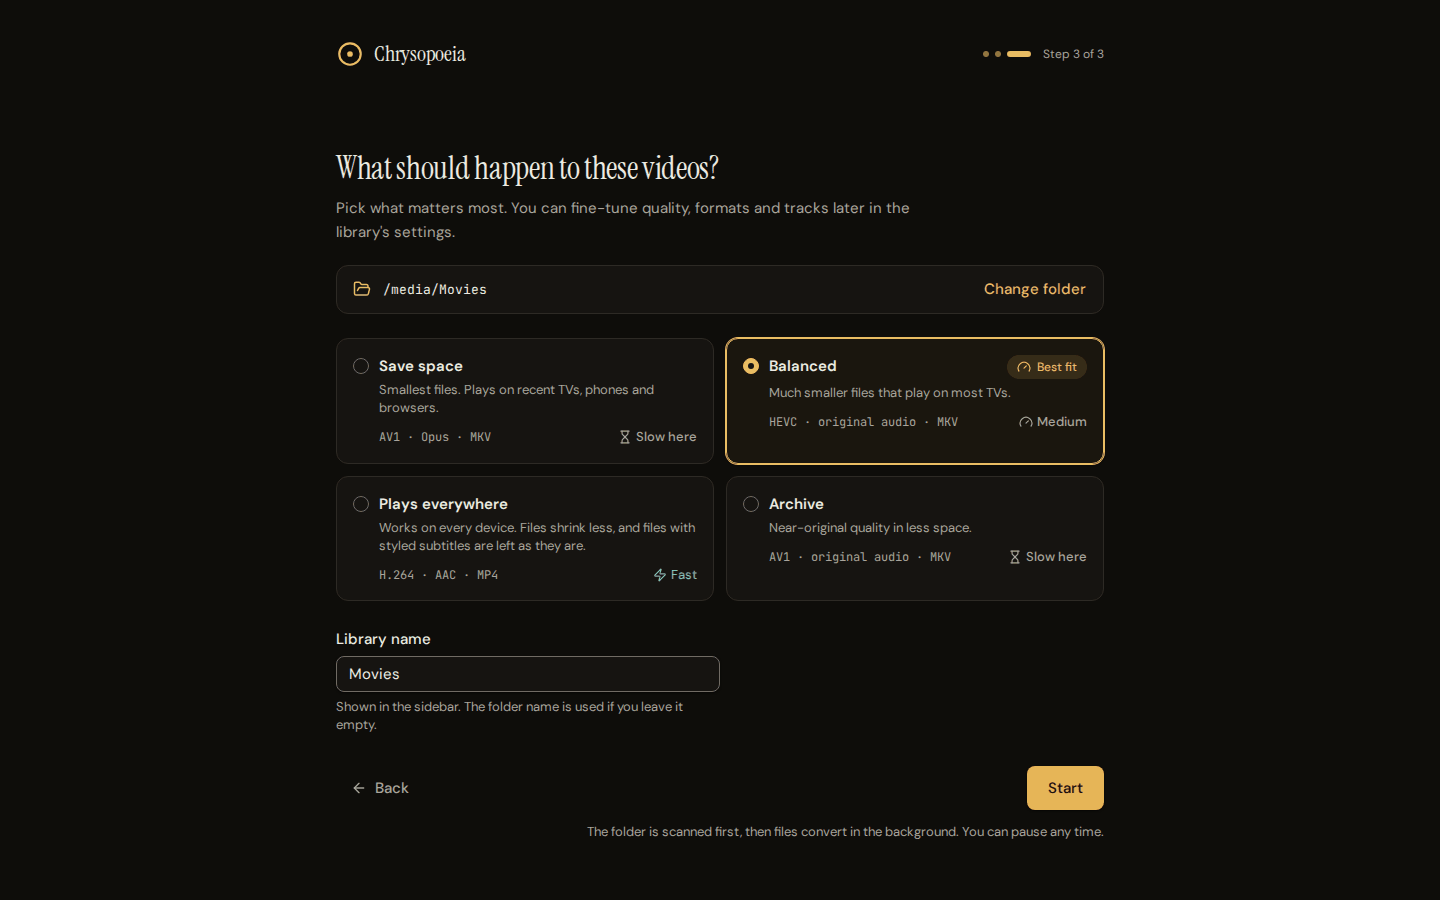
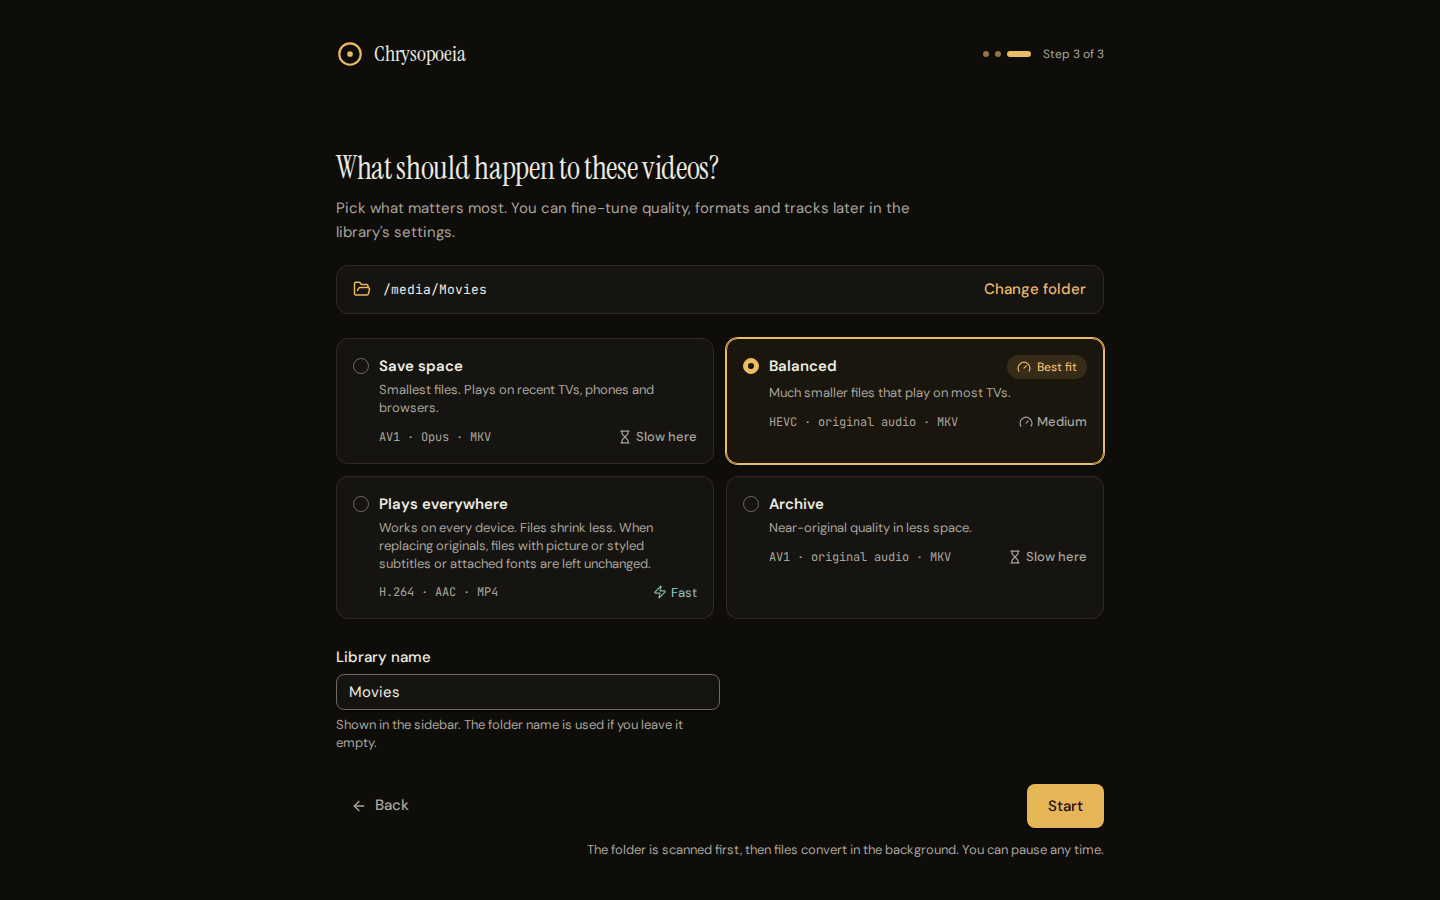
docs: cover share hangs, skip reasons, folder limits and output-name clashes
Brings README.md, docs/UNRAID.md and CONTRIBUTING.md (HARDWARE.md needed no
change) in line with the product after 5a6d938, checked against a real image
built from 063d07a and run Unraid-style (PUID 99, PGID 100, UMASK 002):

- Skip reasons: picture subtitles, styled ASS/SSA subtitles, fonts and other
  attachments, and covers MP4 or WebM can't hold are skipped when replacing,
  with Convert anyway; covers are kept where the format holds them; a file with
  another hard link is skipped too. Quoted the real wording.
- Renames: History and Recently finished show "Was <old name>", and a
  library's search finds a file by its old name.
- A share that stops answering: the library reads "isn't responding", the job
  goes back in the queue, other libraries keep converting, Cancel answers in
  seconds; says plainly that docker stop can't finish while a killed ffmpeg is
  stuck on the hung mount.
- Goal changes while a file converts, library folder limits (/, /config, /app,
  /proc, /sys, /dev), the output-name clash between libraries, a second
  container on one Config folder, a full disk at start, and the unknown-address
  screen with its nginx hint.
- Troubleshooting rows in docs/UNRAID.md for each of these.
- CONTRIBUTING.md: the browser test's new History check, the test-hooks
  feature, the UI-only tooling, and the real screenshot timing.
- Screenshots: setup, overview and job retaken from the new image (the goal
[…]

diff --git a/README.md b/README.md
@@ -68,10 +68,12 @@ while asking far less of you:
   10-bit colour where the target allows; deinterlaces broadcast recordings; skips
   files that are already efficient.
 - Never loses part of a file by replacing it: when the target format can't hold
-  something the original has (picture subtitles, subtitle styling, fonts or cover
-  images in MP4 or WebM), the original is left as it is. An MKV goal keeps it
-  all; with an output folder or Convert anyway the file is converted and each
-  loss is noted on the job.
+  something the original has (picture subtitles, styled ASS/SSA subtitles, fonts
+  and other attachments, or a cover image that MP4 or WebM can't store), the file
+  is skipped, the reason is shown and the original stays as it is. An MKV goal
+  keeps it all, and covers are kept in MKV and, if JPEG, PNG or BMP, in MP4. With
+  an output folder or *Convert anyway* the file is converted and each loss is
+  noted on the job.
 - Watches folders and picks up new files, with an optional schedule (*When to
   convert*), pause, priorities and retry.
 - Replaces originals in place, or writes to a separate output folder and leaves
@@ -79,7 +81,9 @@ while asking far less of you:
   `Movie.mp4` becomes `Movie.mkv`: Plex, Jellyfin and Emby pick that up at their
   next scan, while Sonarr and Radarr see the old file as missing until their next
   disk scan or a *Refresh & Scan* of the series or movie (see the
-  [FAQ](#faq)).
+  [FAQ](#faq)). History and *Recently finished* show the new name with the old
+  one under it (*Was Movie.mp4*), and a library's search finds the file by
+  either.
 
 ### Goals
 
@@ -91,7 +95,9 @@ while asking far less of you:
 | Archive | AV1, highest quality | original | MKV | at least 5% smaller |
 
 The first-run screen suggests the goal that suits the machine (the *Best fit*
-badge) and shows how fast each goal converts on it.
+badge) and shows how fast each goal converts on it. When originals are replaced,
+*Plays everywhere* skips a file that has picture subtitles, styled subtitles or
+attachments MP4 can't hold, instead of trimming it (see the [FAQ](#faq)).
 
 ## Quick start
 
@@ -193,7 +199,9 @@ the folder you want converted and click the button that names it, **Use
 “Movies”**. Then pick a goal and click **Start**. Chrysopoeia scans the folder,
 queues the files that need work and starts converting; the Overview shows the
 space saved and what is happening now. Add more folders later with **Add
-library**.
+library**. A library can't be `/`, `/config`, `/app`, `/proc`, `/sys` or `/dev`,
+or a folder inside one of them: the picker disables the button and says why, and
+the same rule applies to `LIBRARIES`.
 
 ### Which image
 
@@ -324,13 +332,22 @@ leave them as they are.
 | `/media` | Your media. Needs write access so originals can be replaced. |
 | `/temp` | Optional scratch space on a fast disk (SSD or cache pool). |
 
+Each container needs its own `/config` folder. A second one started on the same
+folder stops at once and says *Another Chrysopoeia is already using the data
+folder /config*, so nothing is changed; give it its own folder (Unraid: the
+Config path; docker: `-v /other/folder:/config`) or stop the first. If the disk
+that holds `/config` is full, the start fails with *The disk that holds the data
+folder (/config) is full, so the database there couldn't be opened*: free some
+space there and start it again.
+
 ### Behind a reverse proxy
 
 Chrysopoeia answers on its IP address, `localhost` and local names (`tower`,
 `tower.local`, `nas.lan`, `*.home.arpa`, `*.ts.net` and similar) without any
 setup. So that a hostile website cannot reach it through a look-alike domain,
 any other name must be listed in `ALLOWED_HOSTS`; until it is, the app shows
-*Chrysopoeia doesn't answer to the address "…"*.
+*Chrysopoeia doesn't answer to the address "…"* with the line to add and, for
+nginx, the `proxy_set_header Host $http_host;` hint.
 
 - Set `ALLOWED_HOSTS=transcode.example.com` (several: separate with commas; a
   leading dot, `.example.com`, allows every name under that domain).
@@ -415,9 +432,11 @@ chose under *More format options*. `Movie.mp4` becomes `Movie.mkv`, and an
 container keeps its name. Because the old path then no longer exists, Plex,
 Jellyfin and Emby pick up the new name at their next library scan, while Sonarr
 and Radarr show the file as missing until their next disk scan or until you
-run *Refresh & Scan* on the series or movie. To keep names as they are, choose
-a goal whose container matches your files (*Balanced* for a library of `.mkv`
-files), or *Save to a separate folder*.
+run *Refresh & Scan* on the series or movie. In History and *Recently finished*
+the file appears under its new name with *Was Movie.mp4* beneath it, and the
+library's search finds it by the old name too. To keep names as they are,
+choose a goal whose container matches your files (*Balanced* for a library of
+`.mkv` files), or *Save to a separate folder*.
 
 **What does "Verified" mean?**
 The new file was opened and checked before it replaced the original. With the
@@ -447,7 +466,9 @@ each with its fix and, where trying again can help, a **Try again** button:
 - *N files couldn't be converted*: the encoder or the checks failed. The
   originals are untouched; the file's page says why.
 - *N files changed or moved while being converted*: nothing was replaced.
-- *Movies: the folder can't be read* (a library's name comes first): the folder is missing or offline.
+- *Movies: the folder can't be read* (a library's name comes first): the folder
+  is missing, offline, or on a share or drive that isn't responding (see *What if
+  a network share or drive stops answering?* below).
 
 **Why was a file skipped?**
 The reason is shown next to the file. The usual ones: the video is already as
@@ -455,15 +476,24 @@ efficient as the target (for example it is already AV1); it is audio-only; it
 could not be read or is shorter than a second; the converted file was not
 enough smaller to be worth keeping (the original is kept); it is HDR and the
 goal is H.264 (tone mapping is not supported yet); it is Dolby Vision profile 5,
-whose colours cannot be kept; the goal saves to MP4 or WebM (for example
-*Plays everywhere*) and the file has something that format cannot hold
-(picture-based subtitles, styled subtitles, subtitle fonts or other attached
-files, or a cover image MP4 can't store), so replacing it would lose it; or you
-skipped it. *Convert anyway* on a skipped file converts it once, ignoring the
-library's rules for skipping (the usual checks still run); in the subtitle case
-what the format cannot hold is left out and noted on the job. An MKV goal keeps
-everything, and *Save to a separate folder* converts the file while the
-original stays.
+whose colours cannot be kept; it has another hard link (a torrent that is still
+seeding), so replacing it would use more space instead of saving it; the goal
+saves to MP4 or WebM (for example *Plays everywhere*) and the file has something
+that format can't hold; or you skipped it.
+
+When the format can't hold something, replacing the file would lose it, so the
+original is left alone and the reason says what: *MP4 can't hold this file's 2
+picture-based subtitles, 1 styled subtitle and 1 subtitle font, so it was left
+unchanged.* That covers picture-based subtitles (PGS, VobSub), styled ASS/SSA
+subtitles (MP4 and WebM keep only their text), fonts and other attached files,
+and cover images the format can't store (WebM holds none; MP4 holds JPEG, PNG
+and BMP). An MKV goal keeps everything, and *Save to a separate folder*
+converts the file while the original stays.
+
+*Convert anyway* on a skipped file converts it once, ignoring the library's
+rules for skipping (the usual checks still run). What the format can't hold is
+left out and noted on the job; a file with another hard link ends as
+*Converted, no space freed*.
 
 **How many files convert at once?**
 By default it is automatic (*Files at once* in Settings › Processing). On the
@@ -477,6 +507,31 @@ Running jobs are stopped and their temporary files removed; the original is
 never left half-replaced. After the restart those files are back in the queue
 and start again from the beginning. `docker stop` waits for them to wind down,
 normally a few seconds.
+
+**What if a network share or drive stops answering?**
+Whenever it stops, in the middle of a job or before one starts, its library
+shows *The folder /media/Movies isn't responding. If it's on a network share or
+an external drive, check the connection.* under *Needs your attention* within
+seconds, and a running job goes back in the queue within a minute. Nothing is
+marked failed, the files stay listed, and the other libraries keep converting.
+When the share answers again the job starts over. **Cancel** and *Stop now*
+still answer within seconds. A new file that was being put in place when the
+share hung is finished or undone once it answers; the original is never left
+half-replaced.
+
+If it never answers, fix the mount (or unmount it) on the host: Chrysopoeia
+can't do that from inside the container. `docker stop` makes Chrysopoeia exit
+within seconds, but Linux can't kill a process that is waiting on a hung mount,
+so Docker may go on showing the container as running, and `docker stop` may
+report *tried to kill container, but did not receive an exit event*, until the
+share answers.
+
+**What happens to files when I change a library's goal?**
+Files that were skipped or are waiting are decided again under the new goal; a
+scan does the same for any it missed. Files already converted stay as they are.
+A file that is converting when you change the goal is decided again when its job
+ends: when originals are replaced and the new goal would still convert the
+result, it is queued again; otherwise it stays as it is.
 
 **A job's ffmpeg log says `set_mempolicy: Operation not permitted`.**
 Harmless. The x265 (HEVC) encoder asks the kernel where to place its memory,

diff --git a/docs/UNRAID.md b/docs/UNRAID.md
@@ -118,12 +118,17 @@ Click **Apply**. Unraid pulls the image and starts the container.
 2. Click **Choose a folder**. The folder browser opens at `/media`, which is
    the Media share you picked. Open the folder you want converted (for
    example `Movies`) and click the button at the bottom, which names the folder
-   you are in: **Use “Movies”**. You can add more libraries later.
+   you are in: **Use “Movies”**. You can add more libraries later. The picker
+   won't take `/`, `/config` or the app's own and system folders: the button
+   is disabled and the picker says why. Choose the folder that holds your videos.
 3. Choose a goal. *Balanced* (HEVC) is fast with a GPU and plays on most TVs;
    *Save space* (AV1) gives the smallest files; *Plays everywhere* (H.264)
    suits old devices; *Archive* keeps near-original quality. Each card shows
    how fast your hardware handles it, and the one that suits this machine is
-   marked *Best fit*. You can rename the library here.
+   marked *Best fit*. You can rename the library here. Under *Plays everywhere*
+   a file whose subtitles or attachments MP4 can't hold is skipped, with the
+   reason shown, instead of losing them; see
+   [Troubleshooting](#troubleshooting).
 4. Click **Start**. Chrysopoeia scans the folder, queues the files that need
    work, and starts converting. The **Overview** shows the space saved so far
    and what is happening now; the **Queue** has three tabs: **Running** (each
@@ -149,7 +154,8 @@ The converted file gets the new container's extension, so `Movie.mp4` becomes
 that is already in that container keeps its name. Plex, Jellyfin and Emby pick
 this up at their next scan. Sonarr and Radarr see the old file as missing until
 their next disk scan, or until you run *Refresh & Scan* on the series or
-movie.
+movie. In **History** and *Recently finished* the file shows its new name with
+*Was Movie.mp4* beneath it, and the library's search finds it by either name.
 
 ## Transcode cache on an SSD
 
@@ -190,11 +196,14 @@ Config, Media and Transcode cache:
 
 The new files mirror each library's folder structure inside `/output`, with
 the goal's extension, but without the library's own folder name. Two libraries
-that hold the same relative path therefore want the same output file: the
-second is not written (it is never overwritten), and its page says *A file
-named "…" is already in the output folder*. When your libraries are folders
-of one share (`Movies`, `TV`), add that share as a single library instead:
-the output then keeps the `Movies` and `TV` folders.
+that hold the same relative path therefore want the same output file. The
+second is refused and nothing is overwritten: that file fails with *Another
+library's converted file, from Kids, already uses the name "Frozen
+(2013)/Frozen.mkv" in the output folder /output, so this file wasn't converted
+and that file wasn't overwritten*, and the Overview lists it under *Finished
+files can't be saved*. When your libraries are folders of one share (`Movies`,
+`TV`), add that share as a single library instead: the output then keeps the
+`Movies` and `TV` folders.
 
 ## Reverse proxy (SWAG, Nginx Proxy Manager, Traefik)
 
@@ -347,10 +356,17 @@ GPU device it can see.
 | Log says */config already holds other files but no Chrysopoeia database* | The Config path points at a folder that other apps use, such as `/mnt/user/appdata`. Chrysopoeia only adds its own files there and leaves the rest alone, but give it a folder of its own: **Edit** the container, set Config to `/mnt/user/appdata/chrysopoeia` and click **Apply**. |
 | Log says *cannot write to /config* | The Config folder belongs to someone else and is not writable for PUID/PGID, and Chrysopoeia will not take over a folder that holds other data. Set PUID/PGID to the folder's owner, or set Config to a new folder such as `/mnt/user/appdata/chrysopoeia`, which Chrysopoeia then takes over. |
 | Log says *No host folder is mounted at /config* | The Config path is empty, so settings and history would be lost on the next update. Set it to `/mnt/user/appdata/chrysopoeia`. |
+| Log says *Another Chrysopoeia is already using the data folder /config* | A second Chrysopoeia container uses the same Config path (or the first is still running). Nothing was changed. Stop the other one, or **Edit** this one and give it a Config folder of its own, for example `/mnt/user/appdata/chrysopoeia2`. |
+| Log says *The disk that holds the data folder (/config) is full* | The disk behind the Config path (your cache pool or an array disk) has no room for the database. Free some space on it, then start the container again. |
+| A library is listed under **Needs your attention** as *The folder … isn't responding*, and nothing in it converts | The share or drive behind that folder stopped answering, for example a remote SMB or NFS share that went away, or an Unassigned Devices drive that is stuck. Whenever that happens, even in the middle of a job, the job goes back in the queue and nothing is marked failed; the other libraries keep converting, and **Cancel** and *Stop now* still answer within seconds. Fix the connection or the mount on the Unraid side: when the folder answers, the files start over by themselves. A new file that was being put in place is finished or undone, never left half-replaced. Chrysopoeia exits within seconds when you stop the container, but Linux can't kill a process that is waiting on a hung mount, so Docker may keep showing it as running (and the stop may fail with *did not receive an exit event*) until the share answers or its mount is fixed. |
+| A file is skipped with *MP4 can't hold this file's …, so it was left unchanged* | The goal writes MP4 (*Plays everywhere*) and the file has picture-based subtitles (PGS, VobSub), styled ASS/SSA subtitles, fonts or other attached files, or a cover image MP4 can't keep, so replacing the original would lose them. Choose an MKV goal (*Balanced*, *Save space* or *Archive*), which keeps everything; save converted files to a separate folder ([Keeping your originals](#keeping-your-originals)); or open the file and click **Convert anyway** to convert it without them. |
+| A file is skipped with *This file has another hard link* | A torrent that is still seeding, or another hard link, shares the file, so replacing it would use more space instead of saving it. Remove the other link, or click **Convert anyway**; the job then reads *Converted, no space freed*. |
+| Choosing a folder says *The whole server can't be a library*, or that */config* or a system folder can't be one | A library can't be `/`, `/config`, `/app`, `/proc`, `/sys` or `/dev`, or a folder inside one of them. Choose the folder that holds your videos, inside `/media`. |
+| With an output folder, a file fails with *Another library's converted file, from Kids, already uses the name …* | Two libraries hold the same relative path, so both would write the same file in the output folder. The second is refused and nothing is overwritten. Rename one of the two files, or add the share above both folders as one library (see [Keeping your originals](#keeping-your-originals)). |
 | New files are not picked up | Folder watching sees changes made through `/mnt/user` shares. Files added directly to a disk (`/mnt/disk1/...`) are found by the periodic rescan (every 12 hours by default), or open the **⋯** menu at the top right of the library's page and choose **Scan now**. |
 | The server feels slow while converting | Lower *Files at once* in Settings > Processing, or turn on *When to convert* there so conversions run overnight. |
 | Nothing converts at night / during the day as expected | *When to convert* uses the server's time zone. Unraid passes it automatically; check **Settings > Date and Time**. |
-| The app says *Chrysopoeia doesn't answer to the address …* | You opened it through a domain name. Add that name to ALLOWED_HOSTS (see [Reverse proxy](#reverse-proxy-swag-nginx-proxy-manager-traefik)). |
+| The app says *Chrysopoeia doesn't answer to the address …* | You opened it through a name that is not listed. The screen shows the line to use: add that name to ALLOWED_HOSTS and restart (see [Reverse proxy](#reverse-proxy-swag-nginx-proxy-manager-traefik)). Behind nginx, it also needs `proxy_set_header Host $http_host;`. |
 | Through a reverse proxy the page opens, but saving says *This request came from another website, so Chrysopoeia refused it* | The proxy replaces the address the browser used. nginx: add `proxy_set_header Host $http_host;`; Apache: `ProxyPreserveHost On` (see [Reverse proxy](#reverse-proxy-swag-nginx-proxy-manager-traefik)). Opened directly (`http://<server IP>:8080`), this message means a page on another website really did try to change something. |
 | MAX_JOBS or HW_ACCEL seem to be ignored | A number chosen in the app under *Files at once* wins over MAX_JOBS; choose *Automatic* there to use MAX_JOBS. HW_ACCEL is applied when its value changes, so a later choice in Settings > Hardware stays until you change HW_ACCEL again. |
 | A job's ffmpeg log says `set_mempolicy: Operation not permitted` | Harmless: the HEVC (x265) encoder asks for a memory placement that Docker does not allow, and carries on normally. To silence it, add `--cap-add=SYS_NICE` to Extra Parameters. |

diff --git a/CONTRIBUTING.md b/CONTRIBUTING.md
@@ -72,7 +72,9 @@ cd web && pnpm install && NEXT_PUBLIC_API_URL=http://localhost:8080 pnpm dev
 
 Server options are flags with environment-variable fallbacks
 (`cargo run -p chrysopoeia-server -- --help`); the table is in
-[docs/ARCHITECTURE.md](docs/ARCHITECTURE.md#configuration-server).
+[docs/ARCHITECTURE.md](docs/ARCHITECTURE.md#configuration-server). To work on
+the UI alone, [web/README.md](web/README.md) describes a mock API with sample
+data and the phone layout check (`pnpm e2e:layout`).
 
 ### Test media
 
@@ -85,6 +87,11 @@ cases: H.264 MP4 with two audio languages, 1080p H.264 MKV with 5.1 AC-3 and
 subtitles, 10-bit HEVC, interlaced MPEG-2 in MPEG-TS, an MPEG-4 AVI with odd
 dimensions, an audio-only FLAC, a truncated MKV and a text file named `.mp4`.
 Rust tests generate the same kind of media into temporary folders.
+
+Tests that make a folder stop answering, as a hung network share does, use the
+`test-hooks` feature of `chrysopoeia-worker` (`slow_fs::hang`,
+`finalize::hold`). The crates' own tests turn it on, so `cargo test --workspace`
+needs nothing extra; it is never part of the release build or the image.
 
 ## Docker image
 
@@ -160,10 +167,12 @@ inspection) tune it.
 `scripts/e2e-browser.sh` runs `web/e2e/smoke.mjs`: a real browser goes through
 the welcome, folder and goal screens, waits for a file to be converted and
 verified, sees the live card and the saved space appear without a reload, opens
-the file's verification report and Settings > Hardware, and fails on any
-console or server error. It needs Playwright (see Prerequisites). It takes
-about a minute. `E2E_GOAL`, `E2E_TIMEOUT`, `E2E_PORT`, `E2E_KEEP=1` and
-`E2E_SCREENSHOTS=<dir>` (a picture of each step) tune it.
+the file's verification report, checks that History lists a renamed file under
+its new name with *Was <old name>* beneath it, opens Settings > Hardware, and
+fails on any console or server error. It needs Playwright (see Prerequisites).
+It takes about two minutes on four cores. `E2E_GOAL`, `E2E_TIMEOUT` (the 300 s
+limit for conversions), `E2E_PORT`, `E2E_KEEP=1` and `E2E_SCREENSHOTS=<dir>` (a
+picture of each step) tune it.
 
 ### Screenshots
 
@@ -182,9 +191,12 @@ The script goes through the first-run screens on a fresh server, adds a second
 library, waits until a conversion is part-way with some files already done, and
 saves `setup`, `overview`, `queue`, `phone`, `job` (a verified file's checks) and
 `hardware` (Settings > Hardware, the page headed *This machine*). It takes about
-twenty minutes on four cores. Shrink the results before committing them
+ten minutes on four cores. Make the demo media as the user the container runs
+as (as above), or the job page shows a note about a changed file owner. Shrink
+the results before committing them
 (`pngquant --force --ext .png --quality 60-85 docs/screenshots/*.png`, or any
-256-colour quantizer): each should be well under 150 KB.
+256-colour quantizer): each should be well under 150 KB. Retake only the shots
+whose screen has visibly changed since the last time.
 
 ## CI and releases
 
